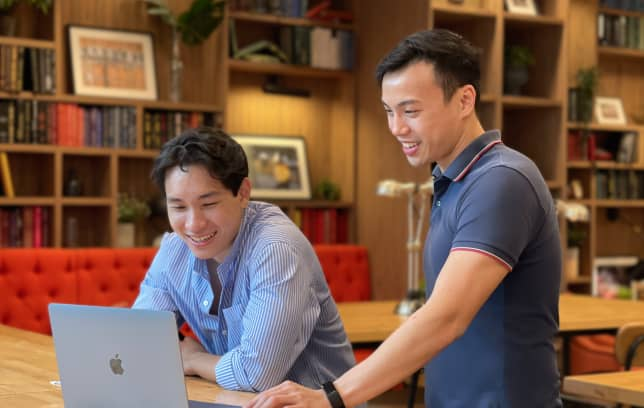
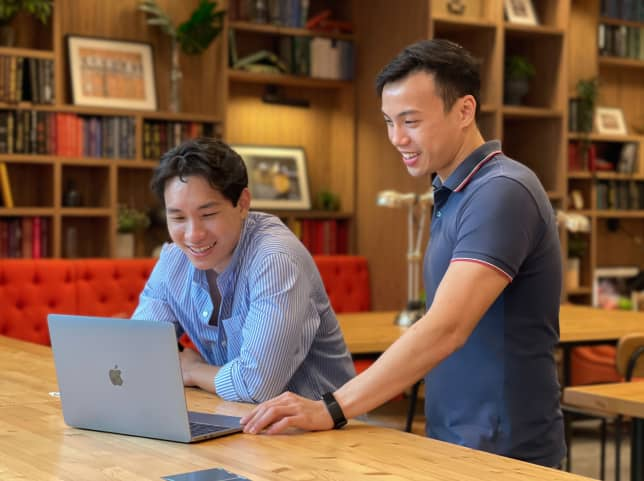
Updated sizes for images

diff --git a/components/company/Teamvio/Teamvio.tsx b/components/company/Teamvio/Teamvio.tsx
@@ -161,8 +161,11 @@ const Img = styled.img`
 `;
 
 const Img1 = styled(Img)`
+	aspect-ratio: 3 / 3.32;
+
 	@media (min-width: 768px) {
 		height: 425px;
+		aspect-ratio: auto;
 	}
 
 	@media (min-width: 1024px) {
@@ -213,8 +216,11 @@ const Img3 = styled(Img)`
 `;
 
 const Img4 = styled(Img)`
+	aspect-ratio: 3 / 3.32;
+
 	@media (min-width: 768px) {
 		height: 329px;
+		aspect-ratio: auto;
 	}
 
 	@media (min-width: 1024px) {
@@ -236,6 +242,7 @@ const MobileImg = styled.img`
 	height: auto;
 	object-fit: cover;
 	border-radius: 32px;
+	aspect-ratio: 3 / 2.74;
 
 	@media (min-width: 768px) {
 		display: none;
